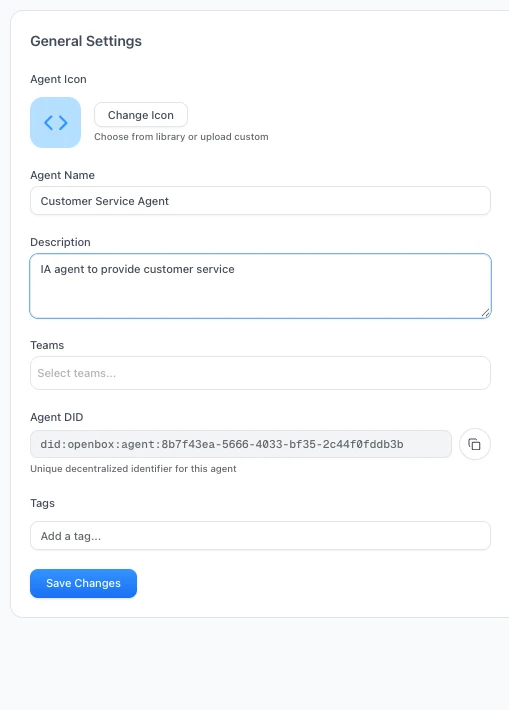
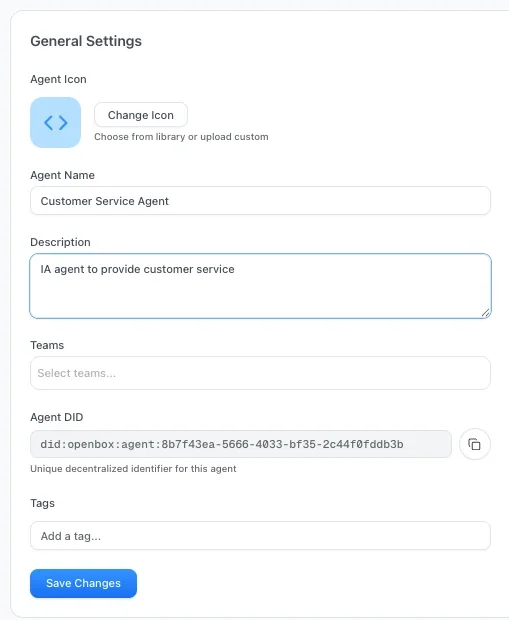
PROD-161 docs: document AIP agent identity in platform docs
Add Core Concepts page covering did:aip identifiers, the Ed25519
signing keypair, and the Require signed requests enforcement toggle.
Update Agent Settings → API Access with Provision DID, Rotate Private
Key, and enforcement subsections (incl. screenshots of the Provision
DID action and the Save Your Agent Credentials dialog). Refresh
Registering Agents to reflect the bundled credentials dialog shown on
agent creation. Replace the stale did:openbox:agent example in
Verify with did:aip, add Agent DID / AIP / Signing Required glossary
entries, and crop the grey footer from the General Settings
screenshot.

diff --git a/website/sidebars.js b/website/sidebars.js
@@ -98,6 +98,7 @@ const sidebars = {
         'core-concepts/trust-scores',
         'core-concepts/trust-tiers',
         'core-concepts/governance-decisions',
+        'core-concepts/agent-identity',
       ],
     },
     {

diff --git a/website/docs/dashboard/agents/agent-settings.md b/website/docs/dashboard/agents/agent-settings.md
@@ -25,7 +25,7 @@ Use this section to update the core identity and organizational assignment of th
 | **Agent Name**  | Editable display name shown throughout the dashboard                        |
 | **Description** | Free-text summary of what the agent does                                    |
 | **Teams**       | Multi-select dropdown to assign the agent to one or more teams              |
-| **Agent DID**   | Read-only decentralized identifier (`did:openbox:agent:...`). Click to copy |
+| **Agent DID**   | Read-only [decentralized identifier](/core-concepts/agent-identity) (`did:aip:...`). Click to copy. Empty until identity is provisioned in [API Access](#api-access) |
 | **Tags**        | Add freeform tags for filtering and organization                            |
 
 Click **Save Changes** to persist any edits.
@@ -58,15 +58,20 @@ Click **Adjust Risk Level** to modify the underlying risk profile parameters. Se
 
 ![API Access](/img/agents/settings-api-access.webp)
 
-Manage the API key that the agent uses to authenticate with the OpenBox SDK.
+Manage how the agent authenticates with OpenBox. Two independent credentials live here:
 
-The panel shows:
+- The **API key** (`obx_live_*` / `obx_test_*`) — the bearer token used on every request
+- The **agent identity** — a [`did:aip:`](/core-concepts/agent-identity) decentralized identifier and Ed25519 private key used to sign governance requests
+
+The panel shows the API key status and, once provisioned, the agent's DID and signing-enforcement state.
 
 | Detail              | Description                                              |
 | ------------------- | -------------------------------------------------------- |
 | **Primary API Key** | Masked key value with an **Active** status badge         |
 | **Created**         | Date the key was generated                               |
 | **Last used**       | Timestamp of the most recent API call made with this key |
+| **Agent DID**       | `did:aip:<uuidv5>` once identity is provisioned, otherwise empty |
+| **Require signed requests** | Whether OpenBox rejects governance requests for this agent that aren't AIP-signed |
 
 ### Rotate Key
 
@@ -79,6 +84,55 @@ Rotating a key invalidates the old key immediately. Any running agent instances 
 ### Revoke Key
 
 Click **Revoke Key** to permanently revoke the API key. This is a destructive action — the agent will no longer be able to authenticate and a new key must be generated before it can resume operations.
+
+### Provision DID
+
+Visible only when the agent has no identity yet (typically pre-AIP agents).
+
+![Provision DID](/img/agents/settings-api-access-provision.webp)
+
+Click **Provision DID** to generate a new Ed25519 keypair and assign the agent a `did:aip:` identifier. The **Save Your Agent Credentials** dialog opens with the new DID, the plaintext private key, and the SDK environment variables (`OPENBOX_AGENT_DID`, `OPENBOX_AGENT_PRIVATE_KEY`) pre-formatted for copy-paste into your agent's secret store.
+
+![Save Your Agent Credentials dialog](/img/agents/settings-api-access-credentials-dialog.webp)
+
+[Require signed requests](#require-signed-requests) is turned **on** in the same step — enforcement begins immediately.
+
+:::warning
+The private key is shown **once** in this dialog and is not stored by OpenBox. Copy it (or the env-var block) before clicking **I've Saved the Credentials**. If you lose it, use [Rotate Private Key](#rotate-private-key).
+:::
+
+:::warning
+Enforcement starts the instant provisioning completes. If your agent is taking live traffic, deploy it with the new private key **before** clicking Provision DID, or any in-flight unsigned request will be rejected. For a soft cutover, untick **Require signed requests** straight after provisioning, deploy the key, then tick it again.
+:::
+
+### Rotate Private Key
+
+Visible once identity is provisioned.
+
+Click **Rotate Private Key** to issue a fresh Ed25519 keypair for the agent. The DID, API key, and governance history are unchanged. The new private key is shown once.
+
+| What changes | What stays the same |
+| --- | --- |
+| Private key (update the agent's secret) | DID |
+| | API key |
+| | Governance history |
+
+:::warning
+Signatures produced with the old key stop verifying as soon as the rotation completes. Update the agent's environment and redeploy before triggering rotation in production.
+:::
+
+### Require signed requests
+
+A checkbox that appears once the agent has a DID, controlling whether OpenBox rejects unsigned governance requests for it.
+
+| State | Behaviour |
+| --- | --- |
+| **Checked** (default after provisioning) | OpenBox rejects any governance request for this agent that isn't signed or fails signature verification. |
+| **Unchecked** | Explicit exemption — OpenBox accepts unsigned requests. The DID and signing key stay in place so you can re-enable enforcement without re-provisioning. |
+
+Agents without a DID don't show this checkbox; they always accept unsigned requests until you provision identity.
+
+See [Agent Identity](/core-concepts/agent-identity) for the concept overview.
 
 ## Danger Zone
 

diff --git a/website/docs/dashboard/agents/registering-agents.md b/website/docs/dashboard/agents/registering-agents.md
@@ -22,12 +22,12 @@ Every AI agent you want to govern with OpenBox needs to be registered first. Reg
    - **Description**: What your agent does
    - **Teams**: Assign to one or more teams
    - **Icon**: Select an icon
-4. **Generate API Key** — Click **Generate API Key**, copy and store it (shown only once)
-5. Configure **Initial Risk Assessment** and **Attestation** (see details below)
-6. Click **Add Agent**
+4. Configure **Initial Risk Assessment** and **Attestation** (see details below)
+5. Click **Add Agent**
+6. In the **Save Your Agent Credentials** dialog that opens, copy the API key, DID, and private key (or the pre-formatted env-var block) into your secrets manager. All three are shown only once.
 
 :::tip
-Your API key format: `obx_live_xxxxxxxxxxxx` — store it securely, you won't see it again.
+The API key (`obx_live_xxxxxxxxxxxx`) and the agent's Ed25519 private key are shown only once. Lose either and you'll need to rotate from [Agent Settings → API Access](/dashboard/agents/agent-settings#api-access).
 :::
 
 ## Detailed Configuration
@@ -58,17 +58,24 @@ Select the workflow engine your agent uses:
 All of these fields can be edited after creation from the [Agent Settings](/dashboard/agents/agent-settings#general-settings) page.
 :::
 
-### API Key Generation
+### Agent Credentials
 
-Every agent needs an API key to authenticate with OpenBox:
+When you finish registering a new agent, OpenBox opens a **Save Your Agent Credentials** dialog containing everything the agent needs to authenticate:
 
-1. Click **Generate API Key**
-2. Copy the key immediately
-3. Store it securely — you won't see it again
+![Save Your Agent Credentials dialog](/img/agents/agent-credentials-dialog.webp)
 
-The key format is: `obx_live_xxxxxxxxxxxx`
+| Credential | What it does |
+| --- | --- |
+| **API Key** (`obx_live_*` / `obx_test_*`) | Bearer token the SDK uses to authenticate the HTTP call. |
+| **Agent DID** (`did:aip:<uuidv5>`) | The agent's cryptographic [identifier](/core-concepts/agent-identity). |
+| **Agent DID Private Key** (Ed25519) | Used by the SDK to sign governance requests so OpenBox can prove they came from this agent. |
+| **SDK Environment Variables** | `OPENBOX_API_KEY`, `OPENBOX_AGENT_DID`, and `OPENBOX_AGENT_PRIVATE_KEY` pre-formatted for copy-paste into your secret store. |
 
-Newly created agents require cryptographic DID signing by default. OpenBox provides the agent DID and private key during identity provision or rotation. Copy the private key immediately, store it as a per-agent secret, and do not reuse it across agents. Runtime SDKs that support DID signing use this pair to sign agent-facing OpenBox requests. If **Require signing** is disabled for the agent, the SDK can authenticate with the API key only.
+:::warning
+The API key and private key are shown **once** in this dialog and are not stored by OpenBox. Copy them — or the env-var block — into your secrets manager before clicking **I've Saved the Credentials**. If you lose the private key you'll need to [rotate](/dashboard/agents/agent-settings#rotate-private-key) it.
+:::
+
+New agents default to **Require signed requests = on**, so the SDK must present a valid signature on every governance request from the moment the agent goes live. You can toggle this from [Agent Settings → API Access](/dashboard/agents/agent-settings#require-signed-requests) at any time; with it off, the SDK authenticates with the API key only.
 
 ### Initial Risk Assessment
 
@@ -143,8 +150,8 @@ See **[Attestation](/administration/attestation-and-cryptographic-proof)** for h
 ### Creating the Agent
 
 1. Review all fields
-2. Ensure you've copied the API key
-3. Click **Add Agent**
+2. Click **Add Agent**
+3. In the **Save Your Agent Credentials** dialog, copy the credentials (see [Agent Credentials](#agent-credentials) above) and click **I've Saved the Credentials**
 
 You'll be redirected to the new agent's detail page.
 

diff --git a/website/docs/core-concepts/agent-identity.md b/website/docs/core-concepts/agent-identity.md
@@ -1,0 +1,56 @@
+---
+title: Agent Identity
+description: "Every OpenBox agent has a cryptographic identity (DID + signing key) that proves governance requests genuinely came from the agent, separate from its API key."
+llms_description: What an agent's DID is and why it matters
+tags:
+  - agent-management
+  - cryptography
+---
+
+# Agent Identity
+
+Every OpenBox agent has a cryptographic identity — a Decentralized Identifier (DID) and an Ed25519 signing key — separate from its API key.
+
+The API key authenticates the HTTP call. The signing key proves *which agent* produced the payload. If an API key leaks, an attacker can reach OpenBox, but they still cannot act as the agent without its private key.
+
+## The DID
+
+Every agent has an identifier of the form:
+
+```
+did:aip:<uuidv5>
+```
+
+It's deterministic — the same agent always resolves to the same DID — and it's stable across key rotation. You'll see it on the agent's Settings page and in audit records for any request the agent signed.
+
+## The signing key
+
+The private key is **Ed25519**, generated when identity is provisioned. OpenBox shows it to you **once** and never stores it. You hold it; OpenBox holds the public half and uses it to verify every signed governance request.
+
+## Enforcement
+
+Whether OpenBox actually *requires* signed requests for an agent is controlled by a per-agent setting called **Require signed requests**.
+
+| State | Behaviour |
+|---|---|
+| **On** | Unsigned requests for this agent are rejected. |
+| **Off** | Unsigned requests are accepted (for agents that haven't provisioned identity yet, or that you've intentionally exempted). |
+
+Both new agents and agents that have just been provisioned default to **On** — enforcement begins the moment provisioning completes. Agents that haven't provisioned identity yet keep accepting unsigned requests.
+
+## Where to manage it
+
+Identity actions live on the agent's **Settings → API Access** page:
+
+- **Provision DID** — generate the keypair and assign a DID (for agents that don't have one yet)
+- **Rotate Private Key** — issue a new keypair without changing the DID
+- **Require signed requests** — toggle enforcement on or off
+
+See [Agent Settings → API Access](/dashboard/agents/agent-settings#api-access) for the step-by-step flow.
+
+## Your responsibilities
+
+- **Store the private key securely.** It's shown once. Put it in the secrets manager your agent process reads from.
+- **Deploy the key before provisioning a live agent.** Enforcement turns on as soon as you click Provision DID. If the agent process isn't already signing requests, unsigned in-flight calls will be rejected.
+- **Rotate immediately if you suspect exposure.** The DID stays the same; only the key changes.
+- **Update your agent before rotating in production.** Signatures from the old key stop verifying as soon as rotation completes.

diff --git a/website/docs/glossary.md b/website/docs/glossary.md
@@ -24,6 +24,22 @@ A single unit of work inside a [Workflow](#workflow) — calling an LLM, queryin
 
 ---
 
+## Agent DID
+
+The Decentralized Identifier assigned to every OpenBox agent, of the form `did:aip:<uuidv5>`. Derived deterministically from the agent's internal ID using UUIDv5 with the AIP namespace — the same agent always resolves to the same DID, and rotating the signing key does not change it. The DID appears in every signed governance request and on the agent's Settings page.
+
+**Learn more:** [Agent Identity (AIP)](/core-concepts/agent-identity)
+
+---
+
+## AIP (Agent Identity Protocol)
+
+OpenBox's cryptographic agent identity layer. Each agent has an Ed25519 keypair; the SDK signs governance requests with the private key, and OpenBox verifies every signature against the non-extractable public key it holds for the agent. Runs alongside the existing API key — the bearer token authenticates the HTTP call, the AIP signature authenticates the agent that produced the payload.
+
+**Learn more:** [Agent Identity (AIP)](/core-concepts/agent-identity)
+
+---
+
 ## Risk Profile
 
 A risk scoring framework that evaluates AI agents across three weighted categories:
@@ -188,6 +204,14 @@ A synchronous, read-only request to inspect a running [Workflow's](#workflow) st
 An interactive dashboard view showing the complete execution timeline of an agent session. Allows step-by-step walkthrough of every operation with its governance decision (ALLOW, BLOCK, REQUIRE_APPROVAL, etc.).
 
 **Learn more:** [Session Replay](/trust-lifecycle/session-replay)
+
+---
+
+## Signing Required
+
+A tri-state flag on every agent that controls whether OpenBox rejects unsigned governance requests. Values: `NULL` (grandfathered — agent predates the [AIP](#aip-agent-identity-protocol) rollout and has never been provisioned), `TRUE` (signing enforced — unsigned requests are rejected), `FALSE` (explicit exemption — DID is provisioned but enforcement is paused). Operators toggle this from [Agent Settings → API Access](/dashboard/agents/agent-settings#require-signed-requests).
+
+**Learn more:** [Agent Identity (AIP)](/core-concepts/agent-identity)
 
 ---
 

diff --git a/website/docs/trust-lifecycle/verify.md b/website/docs/trust-lifecycle/verify.md
@@ -102,7 +102,7 @@ Exportable certificate containing:
 
 ```
 Session: ses_a1b2c3d4e5f6
-Agent: did:openbox:agent:xyz123
+Agent: did:aip:7c3a9b5f-8d2e-5674-9abc-def012345678
 Hash: sha256:8a7b...
 Signature: ecdsa:MIGk...
 Timestamp: 2024-01-15T09:14:32Z
